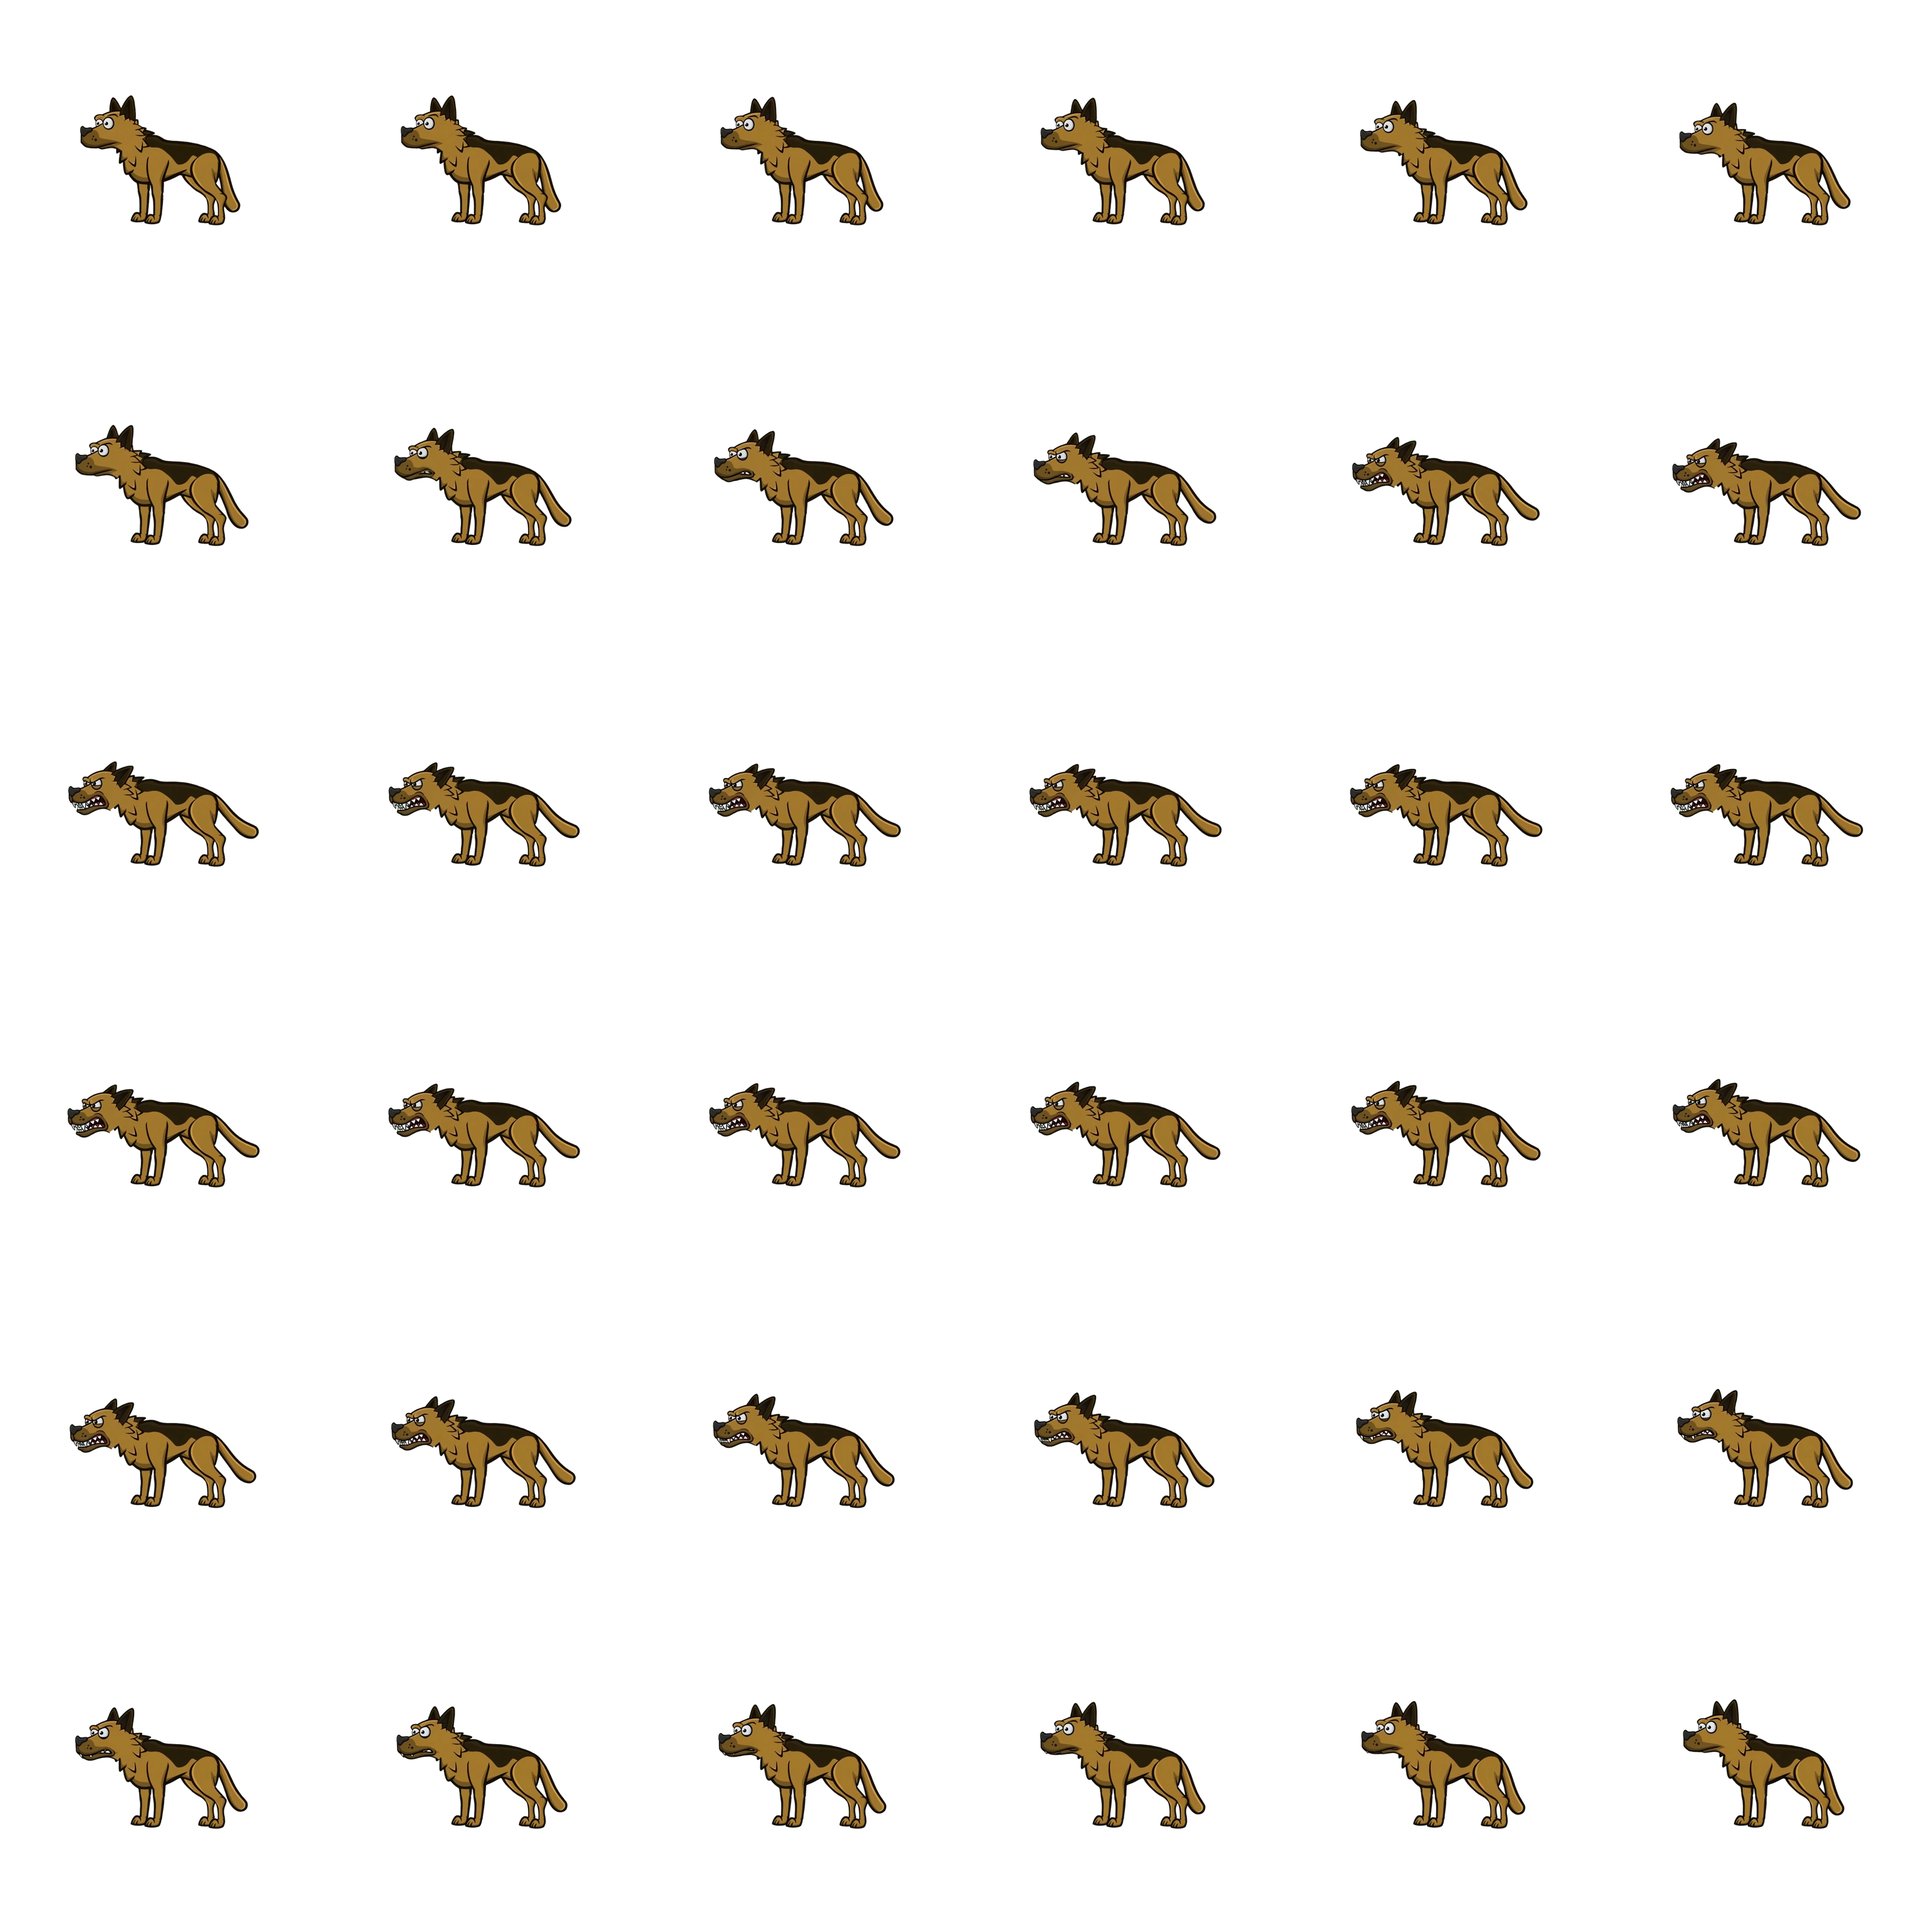
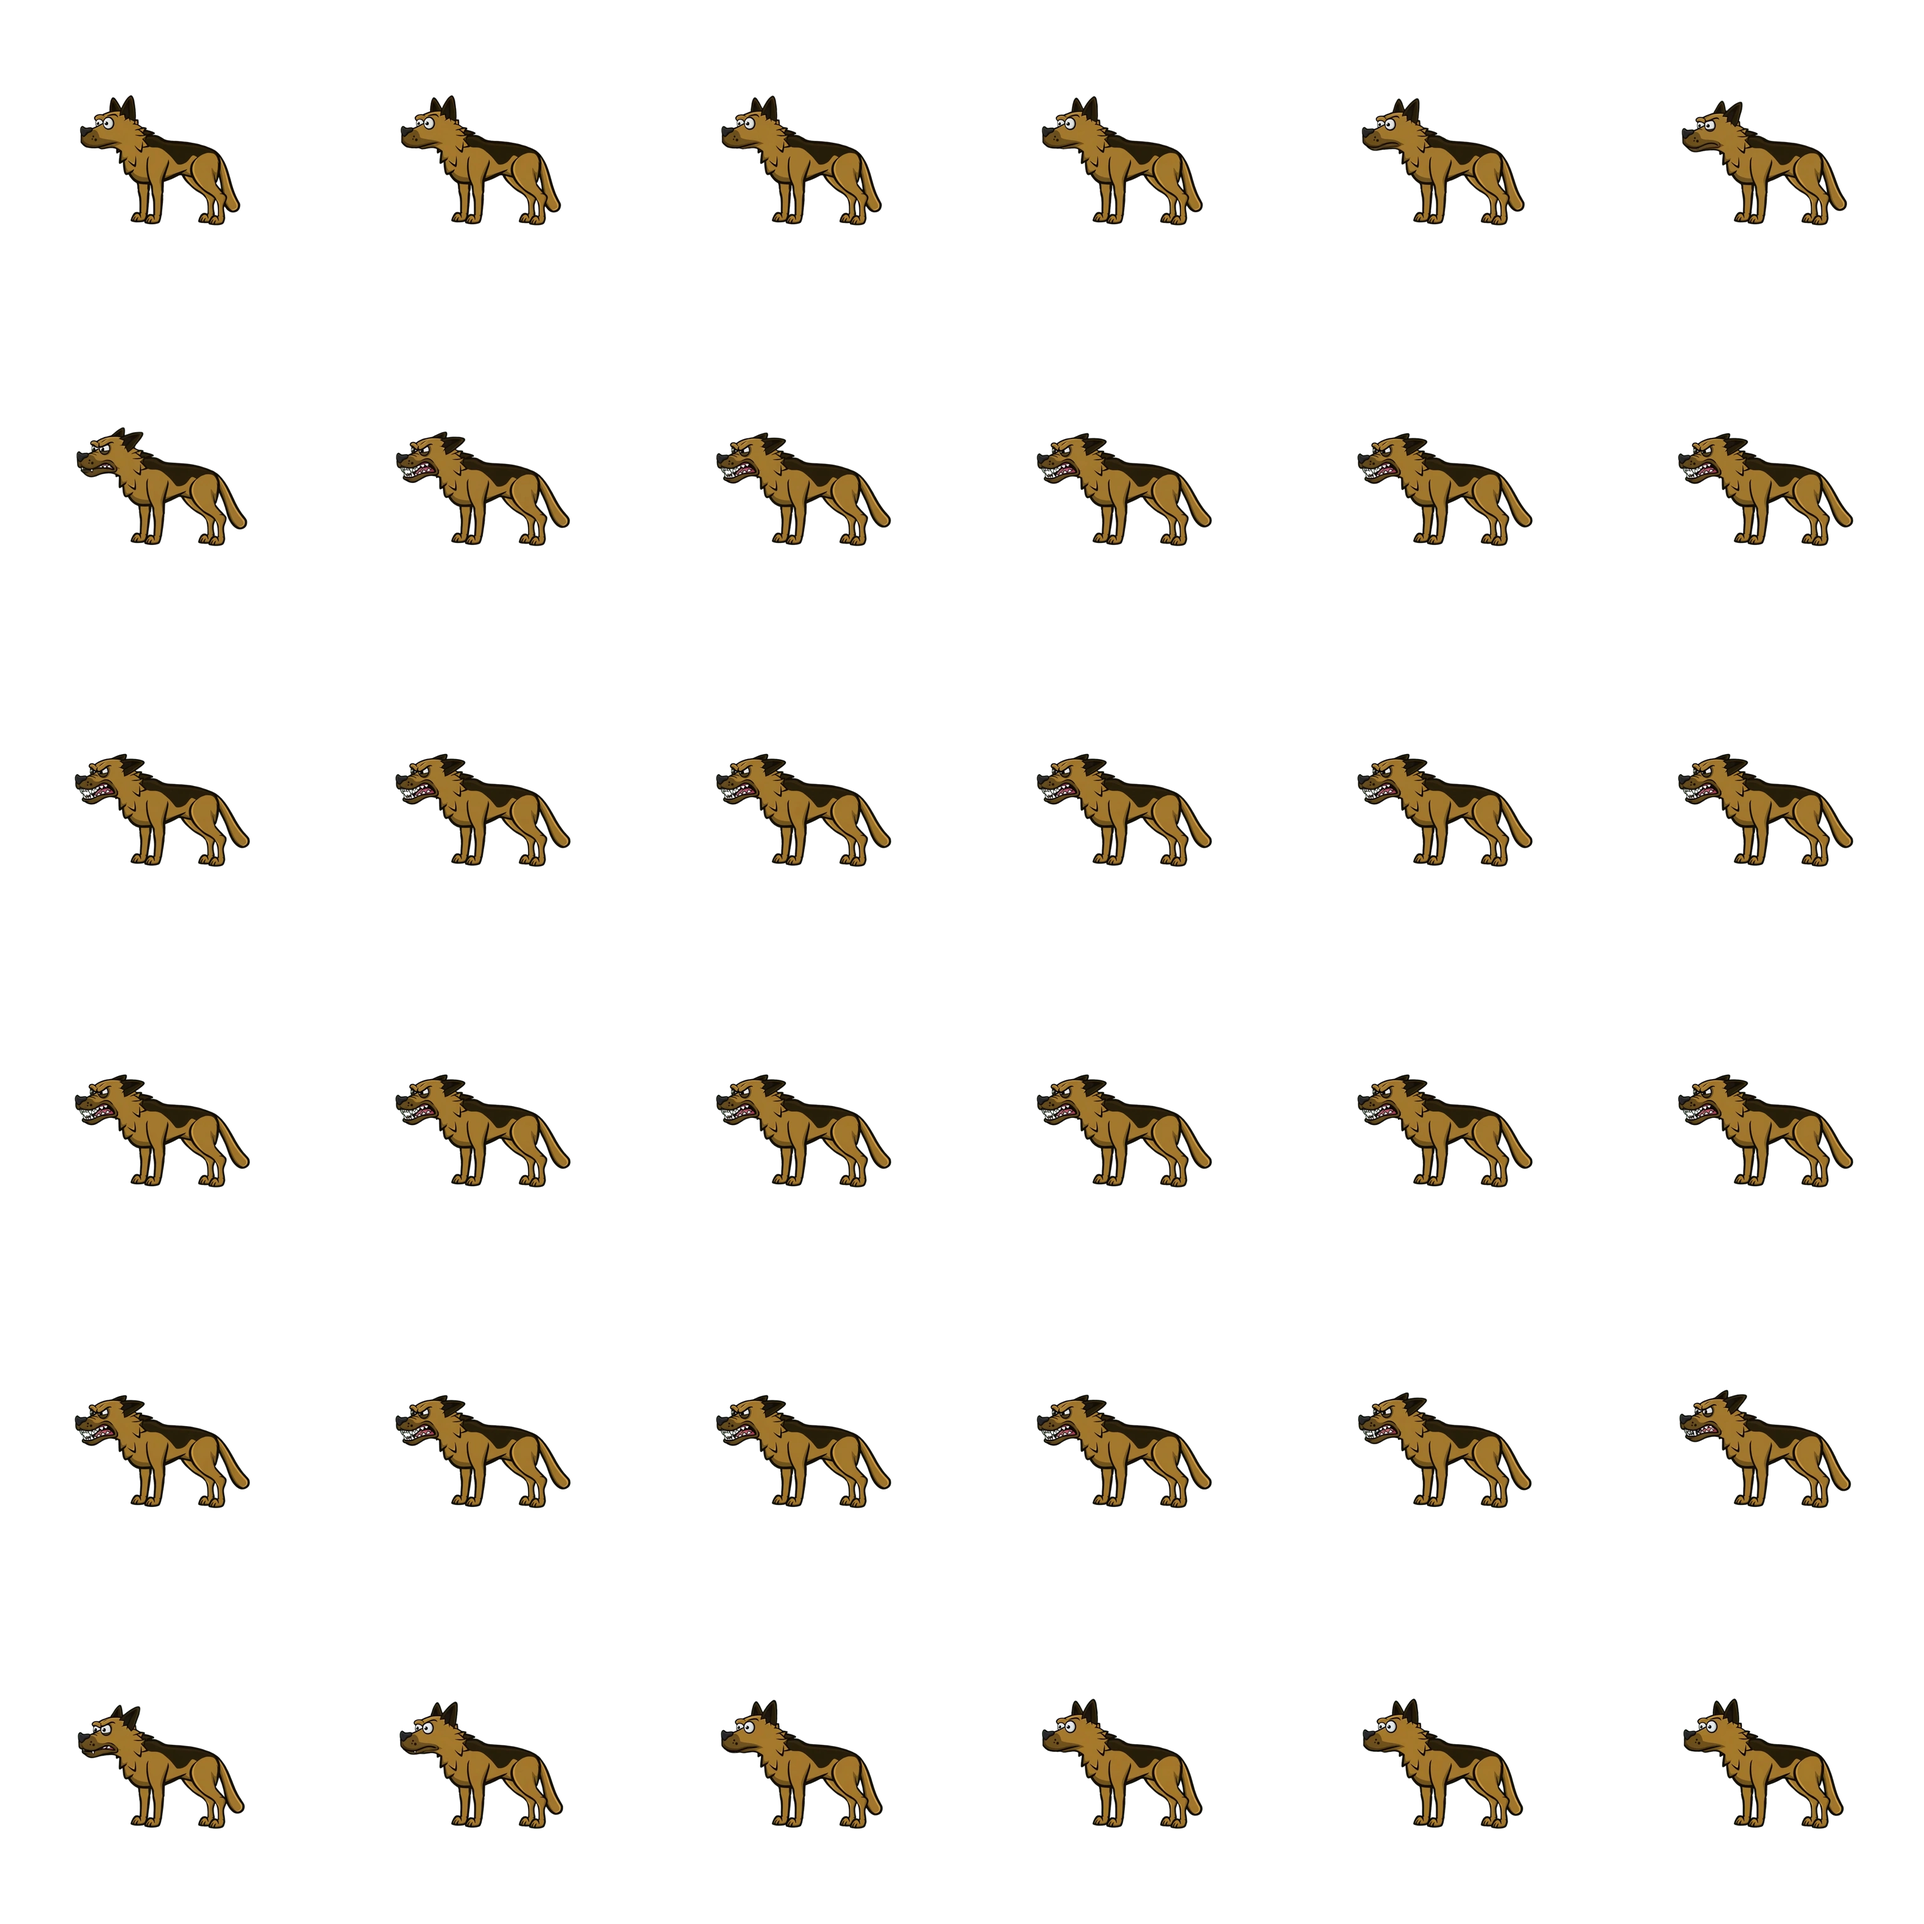
Pin the dog's snarl so its teeth stop flickering
The previous dog angry grew a stray white patch under the chin in
frames 26-29, and its teeth changed count from frame to frame. The new
prompt holds the head still and spells out exactly what the open snarl
shows: one row of small teeth per jaw, the same in every frame, and
nothing white outside the mouth. Height swing drops from 21% to 13%,
so the clip no longer shows as "check".

diff --git a/src/phaser/animals/emotionSheets.generated.ts b/src/phaser/animals/emotionSheets.generated.ts
@@ -272,16 +272,14 @@ export const EMOTION_SHEETS: Partial<
       frameHeight: 512,
       frameCount: 36,
       frameRate: 12,
-      scale: 2.7081,
-      originX: 0.508,
-      originY: 0.7051,
+      scale: 2.7212,
+      originX: 0.5041,
+      originY: 0.7031,
       quality: {
-        loopPop: 0.24,
-        heightSwing: 21.2,
-        driftX: 3,
-        warnings: [
-          'height swing 21% (over 20%) — check it is motion, not the character changing pose',
-        ],
+        loopPop: 0.12,
+        heightSwing: 13,
+        driftX: 2,
+        warnings: [],
       },
     },
     doubtful: {
